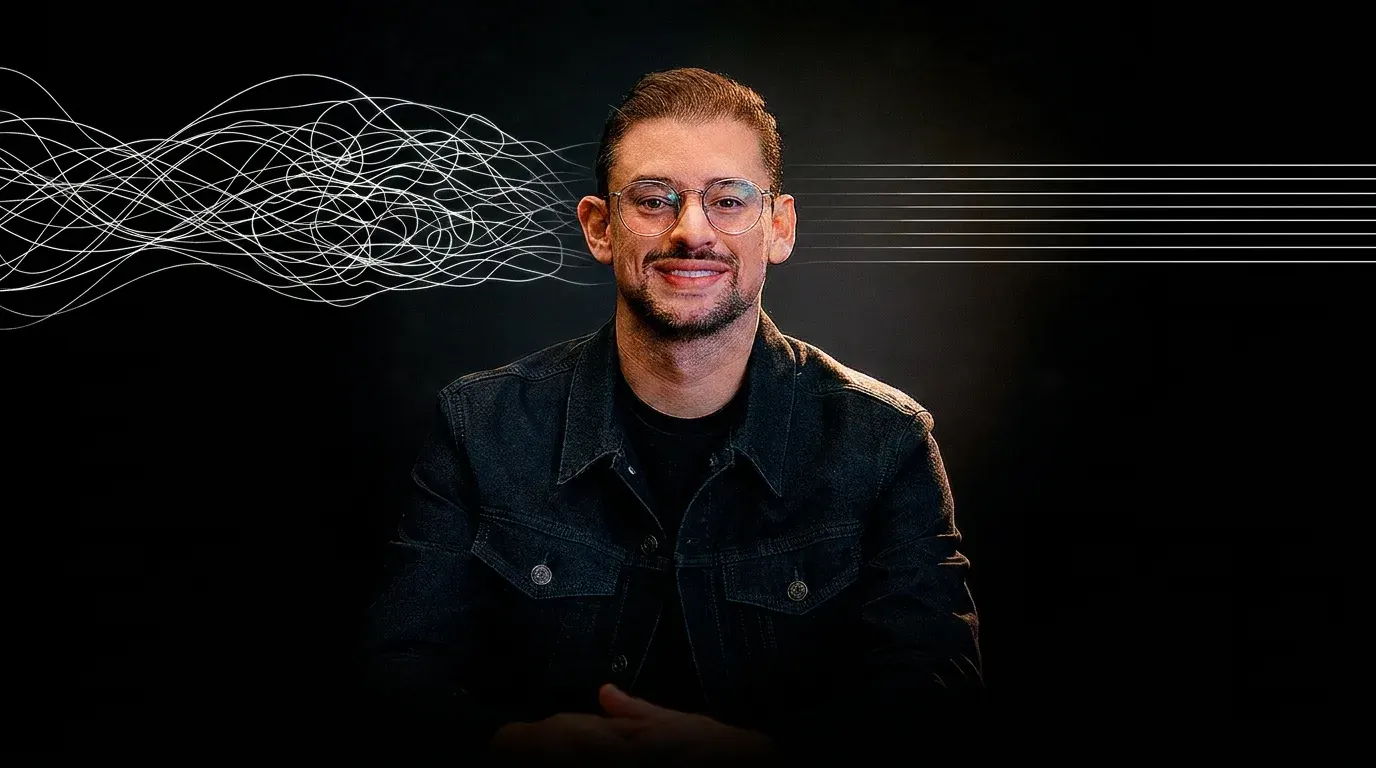
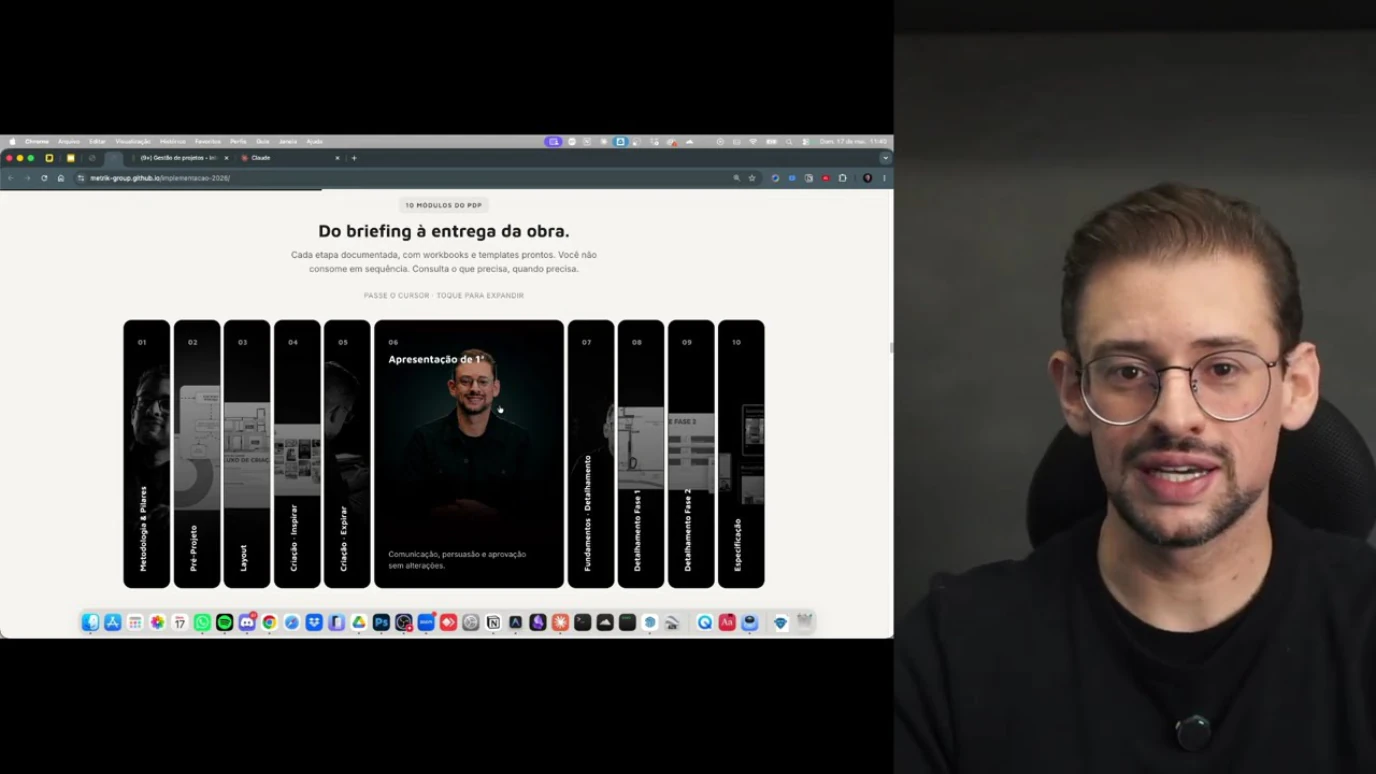
feat: hero thumb retina-ready + Flora -> Fluxos automatizados
- hero-video-thumb desktop: 75KB -> 50KB (q=90, sharp YUV, fonte maxres YouTube)
- hero-video-thumb-mobile: 9.9KB/640x357 -> 42KB/1280x720 (fim da pixelizacao retina)
- copy: "Flora" -> "Fluxos automatizados" (card ferramenta, descricao 4 areas, ancoragem, alts)
- logo Flora mantido no card; imagem ferramenta-flora.avif renomeada para ferramenta-fluxos.avif

diff --git a/index.html b/index.html
@@ -418,7 +418,7 @@
           <div class="pilar-card-icon"><svg class="icon icon-lg"><use href="#i-cpu"/></svg></div>
           <p class="pilar-label">PASSO 3 · TECNOLOGIA</p>
           <p class="pilar-name">IA de Primeira</p>
-          <p class="pilar-desc">IA aplicada nas quatro áreas do seu escritório: documentação, desenvolvimento, representação e gestão. Com Claude, Flora e o 1 Click Render treinados pro seu processo.</p>
+          <p class="pilar-desc">IA aplicada nas quatro áreas do seu escritório: documentação, desenvolvimento, representação e gestão. Com Claude, fluxos automatizados e o 1 Click Render treinados para o seu processo.</p>
           <p class="pilar-hl">O que levava horas, leva minutos.</p>
         </div>
       </div>
@@ -940,7 +940,7 @@
         </div>
       </div>
 
-      <!-- FLORA -->
+      <!-- FLUXOS AUTOMATIZADOS -->
       <div class="ft-card gs">
         <div class="ft-card-head">
           <div class="ft-logo ft-logo-flora" aria-hidden="true">
@@ -948,7 +948,7 @@
           </div>
           <div class="ft-card-meta">
             <p class="ft-card-tag">CONSTRUTOR DE FLUXO</p>
-            <p class="ft-card-name">Flora</p>
+            <p class="ft-card-name">Fluxos automatizados</p>
           </div>
         </div>
         <p class="ft-card-desc">Plataforma visual onde você conecta IAs de texto, imagens e vídeos num único fluxo de trabalho. Ideal para quem quer ir além das imagens e alcançar <strong>representação em vídeos surpreendentes</strong>.</p>
@@ -958,7 +958,7 @@
           <li>Pipelines de apresentação automatizados</li>
         </ul>
         <div class="ft-img-slot ft-img-filled">
-          <img src="img/ferramenta-flora.avif" width="1280" height="568" alt="Flora — construtor de fluxo visual de IA" loading="lazy">
+          <img src="img/ferramenta-fluxos.avif" width="1280" height="568" alt="Construtor visual de fluxos de IA" loading="lazy">
         </div>
       </div>
     </div>
@@ -1041,7 +1041,7 @@
         </div>
         <div class="anc-row"><span class="anc-name">IA aplicada em Documentação, Desenvolvimento, Representação e Gestão</span><span class="anc-dots"></span><span class="anc-val">R$ 997</span></div>
         <div class="anc-row"><span class="anc-name">Claude configurado pro seu padrão (chat, cowork, programação)</span><span class="anc-dots"></span><span class="anc-val">R$ 497</span></div>
-        <div class="anc-row"><span class="anc-name">Flora — construtor de fluxos de IA para imagens e vídeos</span><span class="anc-dots"></span><span class="anc-val">R$ 497</span></div>
+        <div class="anc-row"><span class="anc-name">Fluxos automatizados de IA para imagens e vídeos</span><span class="anc-dots"></span><span class="anc-val">R$ 497</span></div>
         <div class="anc-row"><span class="anc-name">1 Click Render — plugin com IA liberado por 6 meses</span><span class="anc-dots"></span><span class="anc-val">R$ 497</span></div>
         <div class="anc-row"><span class="anc-name">Criação das suas próprias ferramentas de IA</span><span class="anc-dots"></span><span class="anc-val anc-pri">inestimável</span></div>
       </div>